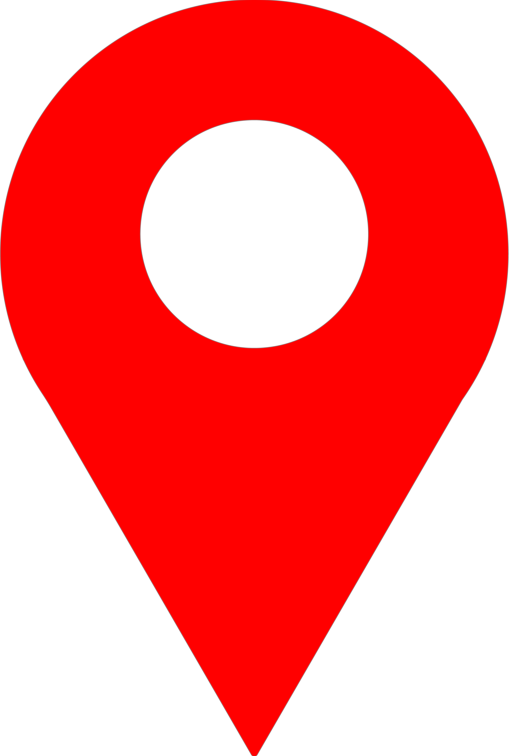
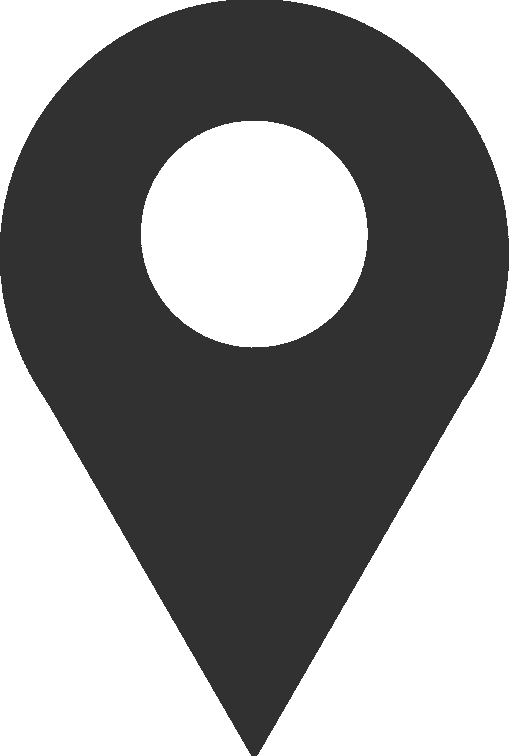
working_12

diff --git a/pages/present.html b/pages/present.html
@@ -37,21 +37,30 @@
         </section>
         <section class="present-pillars">
             <div class="pillar-card">
-                <img src="../images/utb.jpg" alt="UTB Zlín" />
-                <h3>Vzdělávání</h3>
-                <p>Univerzita Tomáše Bati a další školy pokračují v tradici praktického a moderního vzdělávání.</p>
+                <a href="https://www.utb.cz" target="_blank">
+                    <img src="../images/utb.jpg" alt="UTB Zlín" />
+                    <h3>Vzdělávání</h3>
+                    <p>Univerzita Tomáše Bati a další školy pokračují v tradici praktického a moderního vzdělávání.</p>
+                </a>
             </div>
             <div class="pillar-card">
-                <img src="../images/nadace.jpg" alt="Nadace Tomáše Bati" />
-                <h3>Odkaz</h3>
-                <p>Nadace Tomáše Bati šíří jeho filozofii, pořádá výstavy, semináře i veřejné akce.</p>
+                <a href="https://www.nadacetomasebati.cz/" target="_blank">
+                    <img src="../images/nadace.jpg" alt="Nadace Tomáše Bati" />
+                    <h3>Odkaz</h3>
+                    <p>Nadace Tomáše Bati šíří jeho filozofii, pořádá výstavy, semináře i veřejné akce.</p>
+                </a>
             </div>
             <div class="pillar-card">
-                <img src="../images/zlin-dnes.jpg" alt="Zlín dnes" />
-                <h3>Město</h3>
-                <p>Zlín zachovává Baťovu architekturu i duch efektivity a funkčnosti v městském prostoru.</p>
+                <a href="https://www.zlin.eu" target="_blank">
+                    <img src="../images/zlin-dnes.jpg" alt="Zlín dnes" />
+                    <h3>Město</h3>
+                    <p>Zlín zachovává Baťovu architekturu i duch efektivity a funkčnosti v městském prostoru.</p>
+                </a>
             </div>
         </section>
+    </main>
+
+
     </main>
     <footer>
         <nav class="footer-nav">

diff --git a/CSS/styles.css b/CSS/styles.css
@@ -217,7 +217,7 @@ main {
     width: 75%;
     height: 72%;
     margin: auto;
-    top: 3%;
+    top: 10%;
 }
 
 .timeline p {
@@ -423,7 +423,7 @@ main {
 
 .hotspot {
   position: absolute;
-  background: rgb(78, 25, 25);
+  background: rgb(151, 151, 151);
   width: 16px;
   height: 16px;
   border-radius: 50%;
@@ -595,24 +595,26 @@ input[type=range] {
 /* --- present.html --- */
 
 .present {
-  height: 1500px;
-
+  height: 1000px;
 }
+
+.present .introduction p {
+  width: 50%;
+  
+}
+
 .present-pillars {
   position: relative;
+  width: 80%;
   display: flex;
   justify-content: space-between;
   gap: 30px;
-  max-width: 1000px;
-  margin: 100px auto 60px auto;
-  width: 80%;
+  margin: 10% auto;
 }
 
 .pillar-card {
-  position: absolute;
-  background-color: rgba(36, 36, 36, 0.301);
   border-radius: 12px;
-  box-shadow: 0 4px 10px rgba(101, 101, 101, 0.3);
+  box-shadow: 0 4px 10px rgba(63, 63, 63, 0.3);
   width: 30%;
   padding: 20px;
   text-align: center;
@@ -622,18 +624,20 @@ input[type=range] {
 
 .pillar-card:hover {
   transform: translateY(-8px);
-  box-shadow: 0 8px 20px rgba(0, 0, 0, 0.7);
+  box-shadow: 0 8px 20px rgba(39, 39, 39, 0.7);
 }
 
 .pillar-card img {
   width: 100%;
+  height: 300px;
   border-radius: 8px;
   margin-bottom: 15px;
   object-fit: cover;
-  height: 160px;
+  box-shadow: 0 4px 10px rgba(63, 63, 63, 0.3);
 }
 
 .pillar-card h3 {
+  color: #f0a500;
   margin-bottom: 10px;
 }
 
@@ -664,6 +668,9 @@ input[type=range] {
   border-color: #f0a500;
 }
 
+.pillar-card a {
+  text-decoration: none;
+}
 
 /* --- footer --- */
 footer {

diff --git a/pages/city.html b/pages/city.html
@@ -37,7 +37,7 @@
         </section>
         <section class="map-section">
             <div class="map-container">
-                <img src="../images/mapa-zlin.jpg" alt="Mapa Zlína" class="map-image">
+                <img src="../images/mapa-zlin.png" alt="Mapa Zlína" class="map-image">
                 <div class="hotspot" data-key="skola" style="top: 30%; left: 40%;" onclick="showPlace('skola')" title="Baťova škola"></div>
                 <div class="hotspot" data-key="domky" style="top: 50%; left: 60%;" onclick="showPlace('domky')" title="Baťovy domky"></div>
             </div>

diff --git a/pages/history.html b/pages/history.html
@@ -33,7 +33,7 @@
     <main class="history subpage">
         <section class="introduction">
             <h2>Historie</h2>
-            <p>Text pro uvod do historie Batovy skoly prace.</p>
+            <p>Baťova škola práce byla založena v roce 1925 Tomášem Baťou ve Zlíně s cílem vychovávat mladé odborníky pro průmyslovou výrobu a podnikání. Škola kladla důraz na spojení teoretického vzdělání s praktickou prací a formovala budoucí vedoucí pracovníky firmy Baťa.</p>
         </section>
         <section class="timeline">
             <p>1900</p>

diff --git a/JS/script.js b/JS/script.js
@@ -177,4 +177,16 @@ function hidePerson() {
   });
 }
 
+function focusPresentCard(card) {
+  const allCards = document.querySelectorAll('.present-card');
+  allCards.forEach(c => {
+    c.classList.remove('focused');
+    c.style.zIndex = 1;
+    c.style.transform = 'translateX(-50%) translateZ(0)';
+  });
+
+  card.classList.add('focused');
+  card.style.zIndex = 10;
+  card.style.transform = 'translateX(-50%) translateZ(150px)';
+}
 
